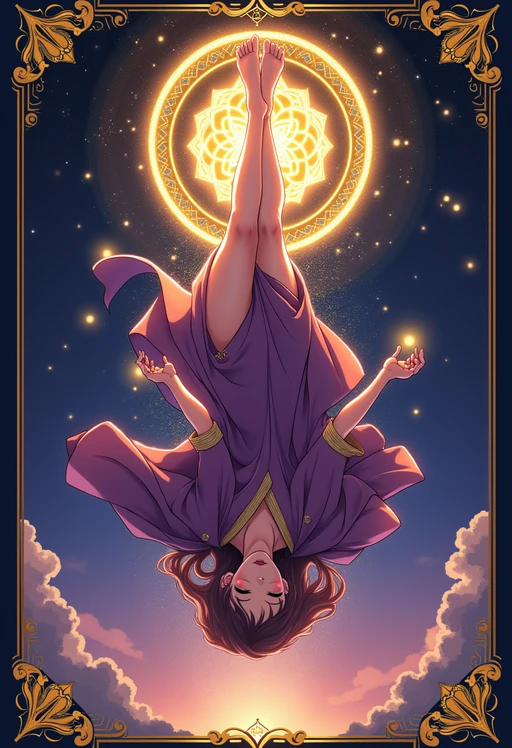
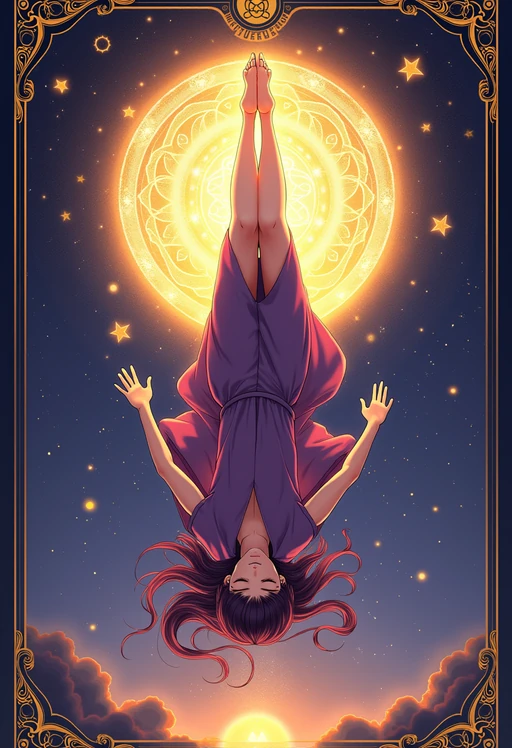
chore(jokerrun): 매달린 자 타로 3번 시드(7790)로 교체 + 캐시 v5

diff --git a/jokerrun/index.html b/jokerrun/index.html
@@ -3973,7 +3973,7 @@
 
     let _collectionTab = "joker";
     function collectionData(kind) {
-      if (kind === "tarot") return tarotPool.map(t => ({ id: t.id, name: t.name, desc: (t.desc || "") + ((t.need || 0) > 0 ? ` · 카드 ${t.need}장 선택` : " · 즉시 사용"), img: aimg(`tarot/${t.id}.webp?v=4`), badge: { label: "타로", color: "#b56ad6" } }));
+      if (kind === "tarot") return tarotPool.map(t => ({ id: t.id, name: t.name, desc: (t.desc || "") + ((t.need || 0) > 0 ? ` · 카드 ${t.need}장 선택` : " · 즉시 사용"), img: aimg(`tarot/${t.id}.webp?v=5`), badge: { label: "타로", color: "#b56ad6" } }));
       if (kind === "planet") return planetPool.map(p => { if (p.special) return { id: p.id, name: p.name, desc: p.desc, img: aimg(`planets/${p.id}.webp?v=2`), badge: { label: "특수", color: "#a06bff" } }; const hn = handBase[p.hand]?.name || p.hand; return { id: p.id, name: `${p.name}(${hn})`, desc: `${hn} 기술 영구 강화 (+${p.chipsBonus}공격력 / +${p.multBonus}연격)`, img: aimg(`planets/${p.id}.webp?v=2`), badge: { label: "행성", color: "#4a84ff" } }; });
       return jokerPool.map(j => { const r = rarityOf(j); return { id: j.id, name: j.name, desc: j.detail || j.desc, img: aimg(`jokers/${j.id}.webp?v=2`), glyph: jokerGlyphClass[j.id] || "joker-duo", badge: { label: r.label, color: r.color } }; });
     }
@@ -5586,7 +5586,7 @@
         const need = item.need || 0;
         const cardLocked = need > 0 && inShop;   // 카드 선택형은 상점에선 사용 불가(손패 없음)
         openDetailPopup({
-          imgSrc: `tarot/${item.id}.webp?v=4`, emoji: "🔮",
+          imgSrc: `tarot/${item.id}.webp?v=5`, emoji: "🔮",
           name: item.name, badgeLabel: t("pop_badge_tarot"), badgeColor: "#b56ad6",
           desc: (item.desc || "") + (need > 0 ? t("pop_tarot_need", {n: item.need}) : t("pop_tarot_instant")),
           costLine: t("pop_sell", {n: sell}),
@@ -5631,7 +5631,7 @@
           card.classList.add("tarot-mini");
           card.dataset.need = String(tarot.need || 0);
           card.innerHTML = `
-            <img class="planet-art" src="${aimg(`tarot/${tarot.id}.webp?v=4`)}" alt="" draggable="false" onerror="this.style.display='none'">
+            <img class="planet-art" src="${aimg(`tarot/${tarot.id}.webp?v=5`)}" alt="" draggable="false" onerror="this.style.display='none'">
             <span class="planet-grad" aria-hidden="true"></span>
             <span class="planet-glyph">${tarot.name}</span>
             <span class="planet-target">${t("ui_tarot_mini_label")}${(tarot.need || 0) > 0 ? ` ${t("mini_need", { n: tarot.need })}` : ""}</span>`;
@@ -6067,7 +6067,7 @@
             ? `<span style="color:#9fd0ff">${tc.exact ? t("ui_tarot_exact") : ""}${t("tarot_need_use", { n: tc.need })}</span>`
             : `<span style="color:#9fd0ff">${t("ui_tarot_instant_txt")}</span>`;
           return `<div style="display:flex;gap:10px;align-items:center;padding:8px 4px;border-bottom:1px solid rgba(255,255,255,.08)">
-            <img src="${aimg(`tarot/${tc.id}.webp?v=4`)}" alt="" loading="lazy" style="width:46px;height:64px;object-fit:cover;border-radius:7px;border:1px solid #b56ad688;flex:0 0 auto;background:#1a0f24" onerror="this.outerHTML='<span style=\\'width:46px;height:64px;display:flex;align-items:center;justify-content:center;font-size:1.6rem;flex:0 0 auto\\'>🔮</span>'">
+            <img src="${aimg(`tarot/${tc.id}.webp?v=5`)}" alt="" loading="lazy" style="width:46px;height:64px;object-fit:cover;border-radius:7px;border:1px solid #b56ad688;flex:0 0 auto;background:#1a0f24" onerror="this.outerHTML='<span style=\\'width:46px;height:64px;display:flex;align-items:center;justify-content:center;font-size:1.6rem;flex:0 0 auto\\'>🔮</span>'">
             <div style="flex:1;min-width:0">
               <div style="font-weight:800;color:#e7defb">${tc.name}${owned ? ` <span style="color:var(--gold);font-size:.72rem">${t("ui_owned_count", {n: owned})}</span>` : ""}</div>
               <div style="font-size:.82rem;color:var(--text);margin:2px 0">${tc.desc}</div>
@@ -6452,7 +6452,7 @@
       const wrap = document.createElement("div");
       wrap.className = "tarot-flash";
       const fb = `<span style=\\'font-size:3rem\\'>🔮</span>`;
-      wrap.innerHTML = `<div class="tf-card"><img src="${aimg(`tarot/${tarot.id}.webp?v=4`)}" alt="" draggable="false" onerror="this.outerHTML='${fb}'"><div class="jf-name">${tarot.name}</div></div>`;
+      wrap.innerHTML = `<div class="tf-card"><img src="${aimg(`tarot/${tarot.id}.webp?v=5`)}" alt="" draggable="false" onerror="this.outerHTML='${fb}'"><div class="jf-name">${tarot.name}</div></div>`;
       flashMountTarget().appendChild(wrap);
       try { AudioFX.play("select"); JuiceFX.sfx("chip"); } catch (_) {}
       setTimeout(() => wrap.remove(), 1100);
@@ -7100,10 +7100,10 @@
         // 슬롯 가득이어도 즉시효과 타로는 구매 후 바로 사용 가능(슬롯 안 차지). 카드 선택형만 슬롯 필요.
         const blocked = full && !instant;
         tRow.appendChild(buildShopTile({
-          imgSrc: `tarot/${tarot.id}.webp?v=4`, emoji: "🔮", name: tarot.name, price: cost, afford, borderColor: "#b56ad6",
+          imgSrc: `tarot/${tarot.id}.webp?v=5`, emoji: "🔮", name: tarot.name, price: cost, afford, borderColor: "#b56ad6",
           badge: { label: t("pop_badge_tarot"), color: "#b56ad6" },
           onClick: () => openDetailPopup({
-            imgSrc: `tarot/${tarot.id}.webp?v=4`, emoji: "🔮", name: tarot.name, badgeLabel: t("pop_badge_tarot"), badgeColor: "#b56ad6",
+            imgSrc: `tarot/${tarot.id}.webp?v=5`, emoji: "🔮", name: tarot.name, badgeLabel: t("pop_badge_tarot"), badgeColor: "#b56ad6",
             desc: tarot.desc + (instant ? t("pop_tarot_instant") : t("pop_tarot_shop_need", {n: tarot.need})),
             costLine: (full && instant) ? t("pop_planet_cost_full", {n: cost}) : t("pop_planet_cost_slot", {n: cost}),
             actionLabel: blocked ? t("pop_consumable_full") : (!afford ? t("pop_no_funds") : ((full && instant) ? t("pop_buy_instant", {n: cost}) : t("pop_buy", {n: cost}))),